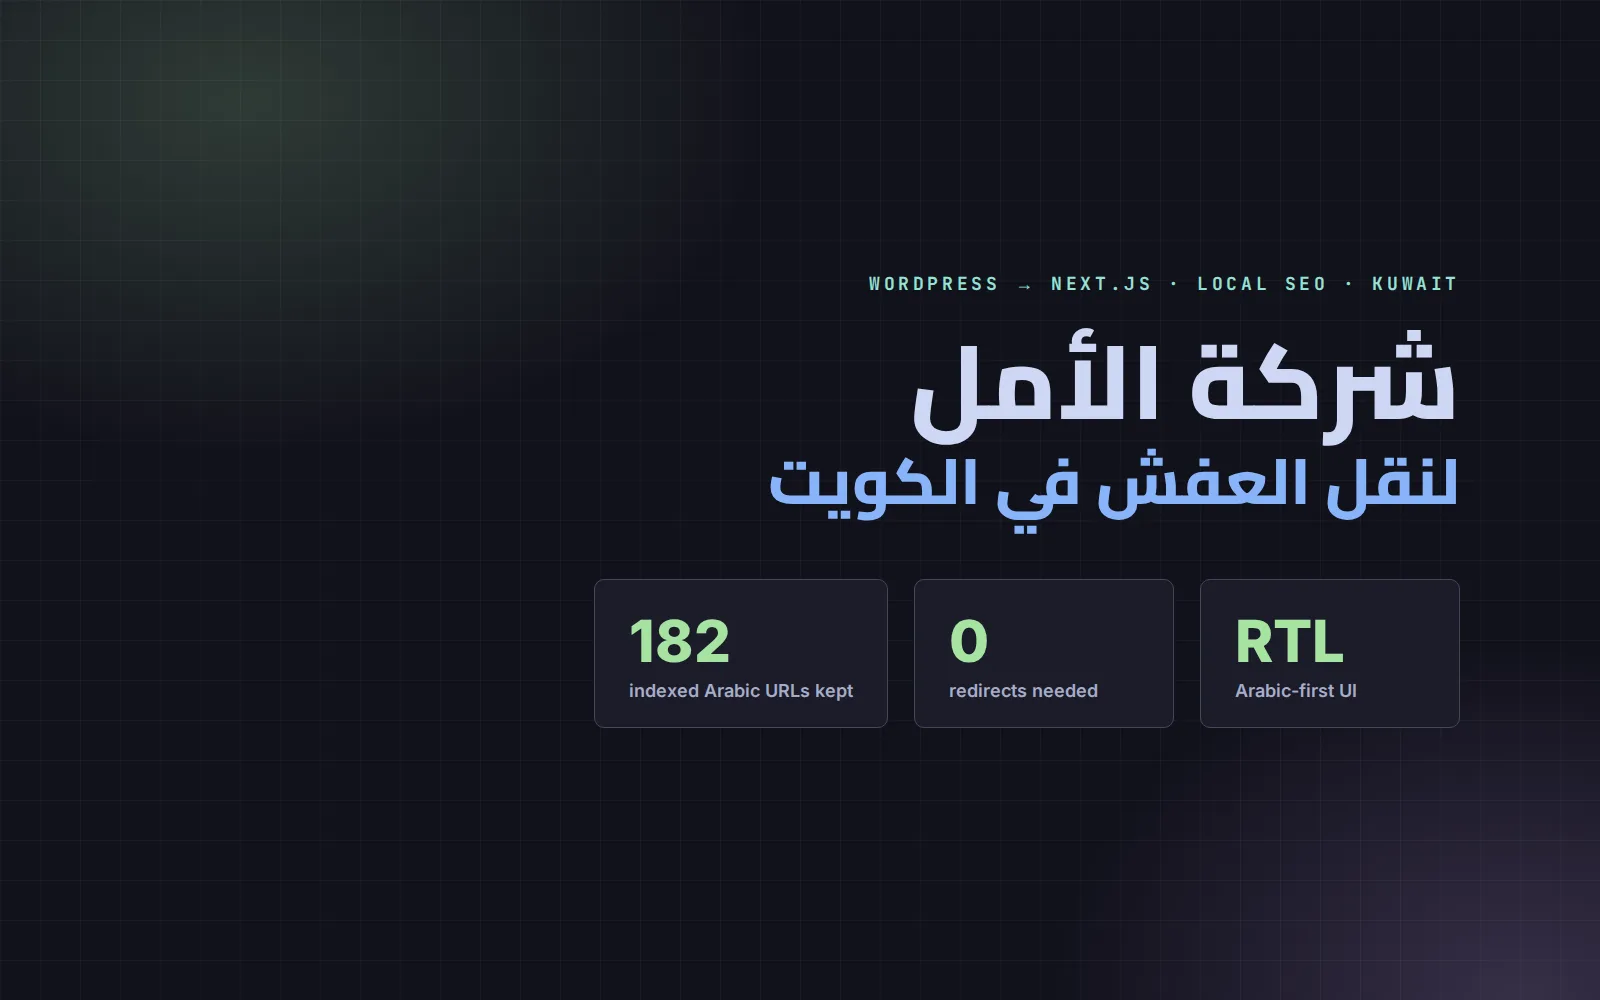
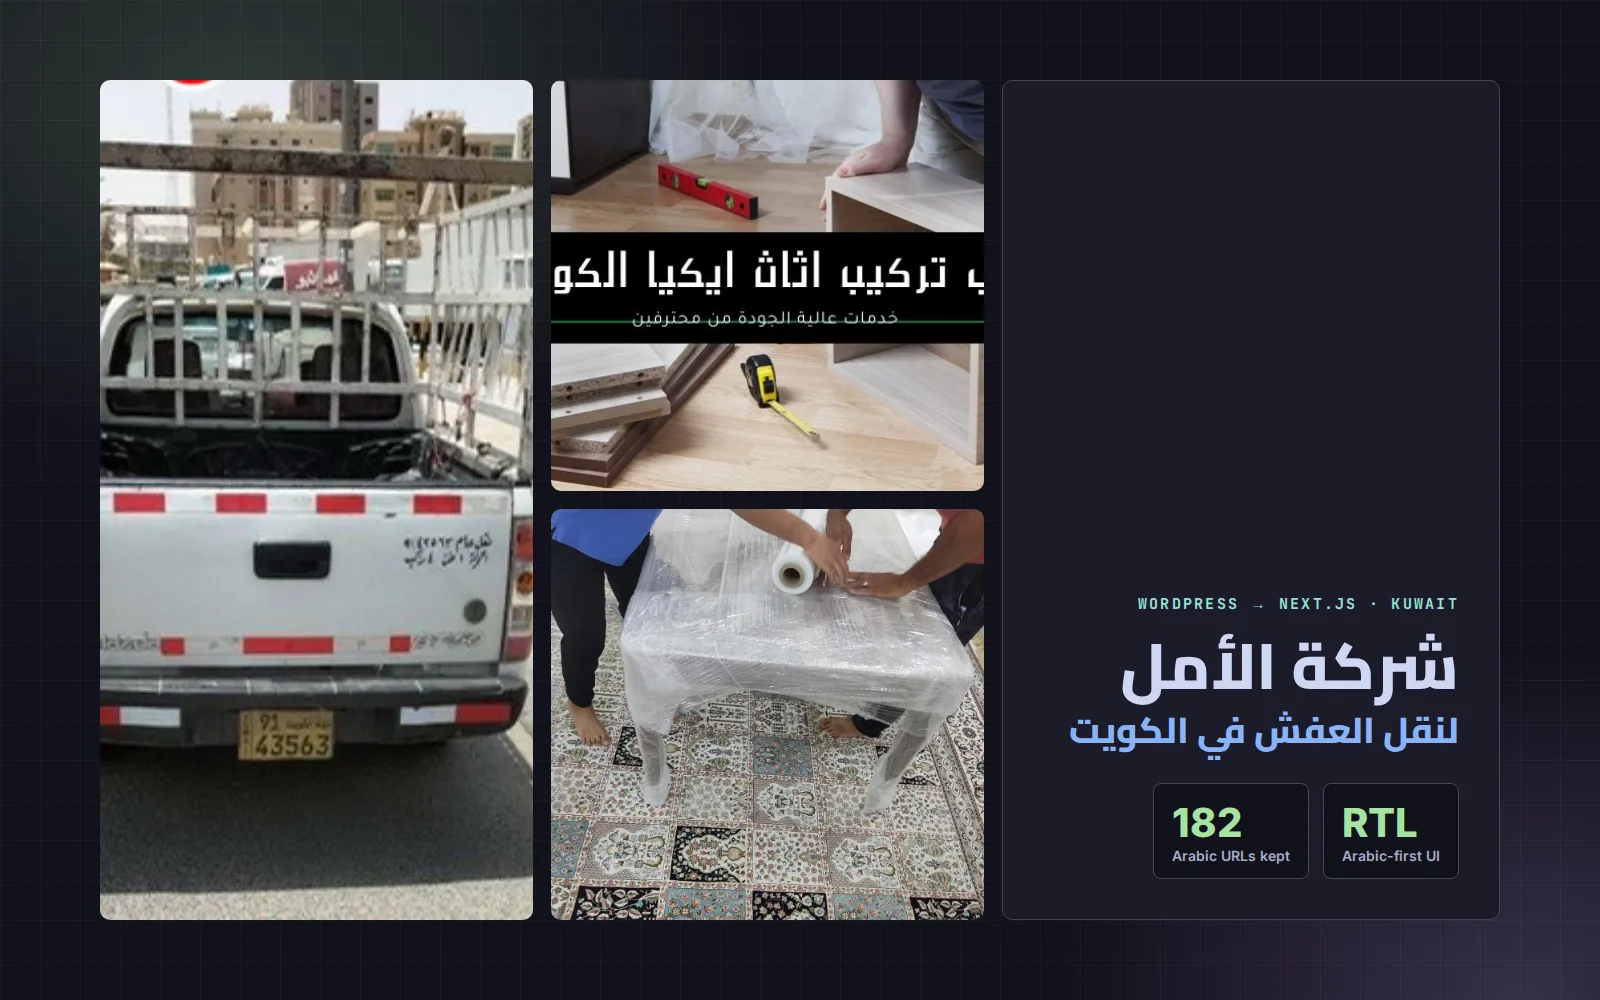
feat: real project screenshots for Work page cards
- Add covers from screenshots found in each repo: Travel Smart,
  Converso (companions-saas-app), Weather App, Landing Page and the
  Rich Black VS Code theme
- Al-Amal cover now uses the client's own photos from the site
- Map repo names to covers (repoCovers) for cards and repo detail pages
- Hide luxellia-preview (duplicate of the Luxellia case study)

Claude-Session: https://claude.ai/code/session_013Y4KMnRyEeNGo3KDY61ZeR

diff --git a/lib/github.ts b/lib/github.ts
@@ -1,7 +1,7 @@
 import { cache } from "react";
 import type { Project } from "@/types/github";
 import { projectOverrides } from "@/data";
-import { caseStudyRepos, hiddenRepos } from "@/data/projects";
+import { caseStudyRepos, hiddenRepos, repoCovers } from "@/data/projects";
 import type { PortfolioCardData } from "@/data/projects";
 import { generateSlug } from "@/lib/utils";
 
@@ -140,7 +140,10 @@ export const getAllProjects = cache(async (): Promise<Project[]> => {
           createdAt: repo.created_at,
           readme: null, // Don't fetch full readme in list
           size: formatSize(repo.size),
-          image: override?.image || `https://opengraph.githubassets.com/1/${repo.full_name}`,
+          image:
+            override?.image ||
+            repoCovers[repo.name.toLowerCase()] ||
+            `https://opengraph.githubassets.com/1/${repo.full_name}`,
           fullName: repo.full_name,
           defaultBranch: repo.default_branch,
         };
@@ -213,5 +216,7 @@ export function repoToCard(project: Project): PortfolioCardData {
       ? project.description
       : `An open-source ${project.language !== "Unknown" ? `${project.language} ` : ""}project — source code and README on GitHub.`,
     stack: project.technologies,
+    cover: repoCovers[project.fullName.split("/")[1].toLowerCase()],
+    coverAlt: `${project.title} — project screenshot`,
   };
 }

diff --git a/data/projects.ts b/data/projects.ts
@@ -224,4 +224,17 @@ export const hiddenRepos = new Set([
   "twstudy",
   "startbootstrap",
   "autocomplete",
+  "luxellia-preview", // preview of the Luxellia case study
 ]);
+
+/**
+ * Real screenshots for GitHub repos (lowercase repo name → image in /public).
+ * Repos without an entry get a generated cover.
+ */
+export const repoCovers: Record<string, string> = {
+  "travel-smart-ui": "/projects/travel-smart.webp",
+  "companions-saas-app": "/projects/converso.webp",
+  "weather-app": "/projects/weather-app.webp",
+  "landing-page": "/projects/landing-page.webp",
+  "rich-black-theme": "/projects/rich-black-theme.webp",
+};
